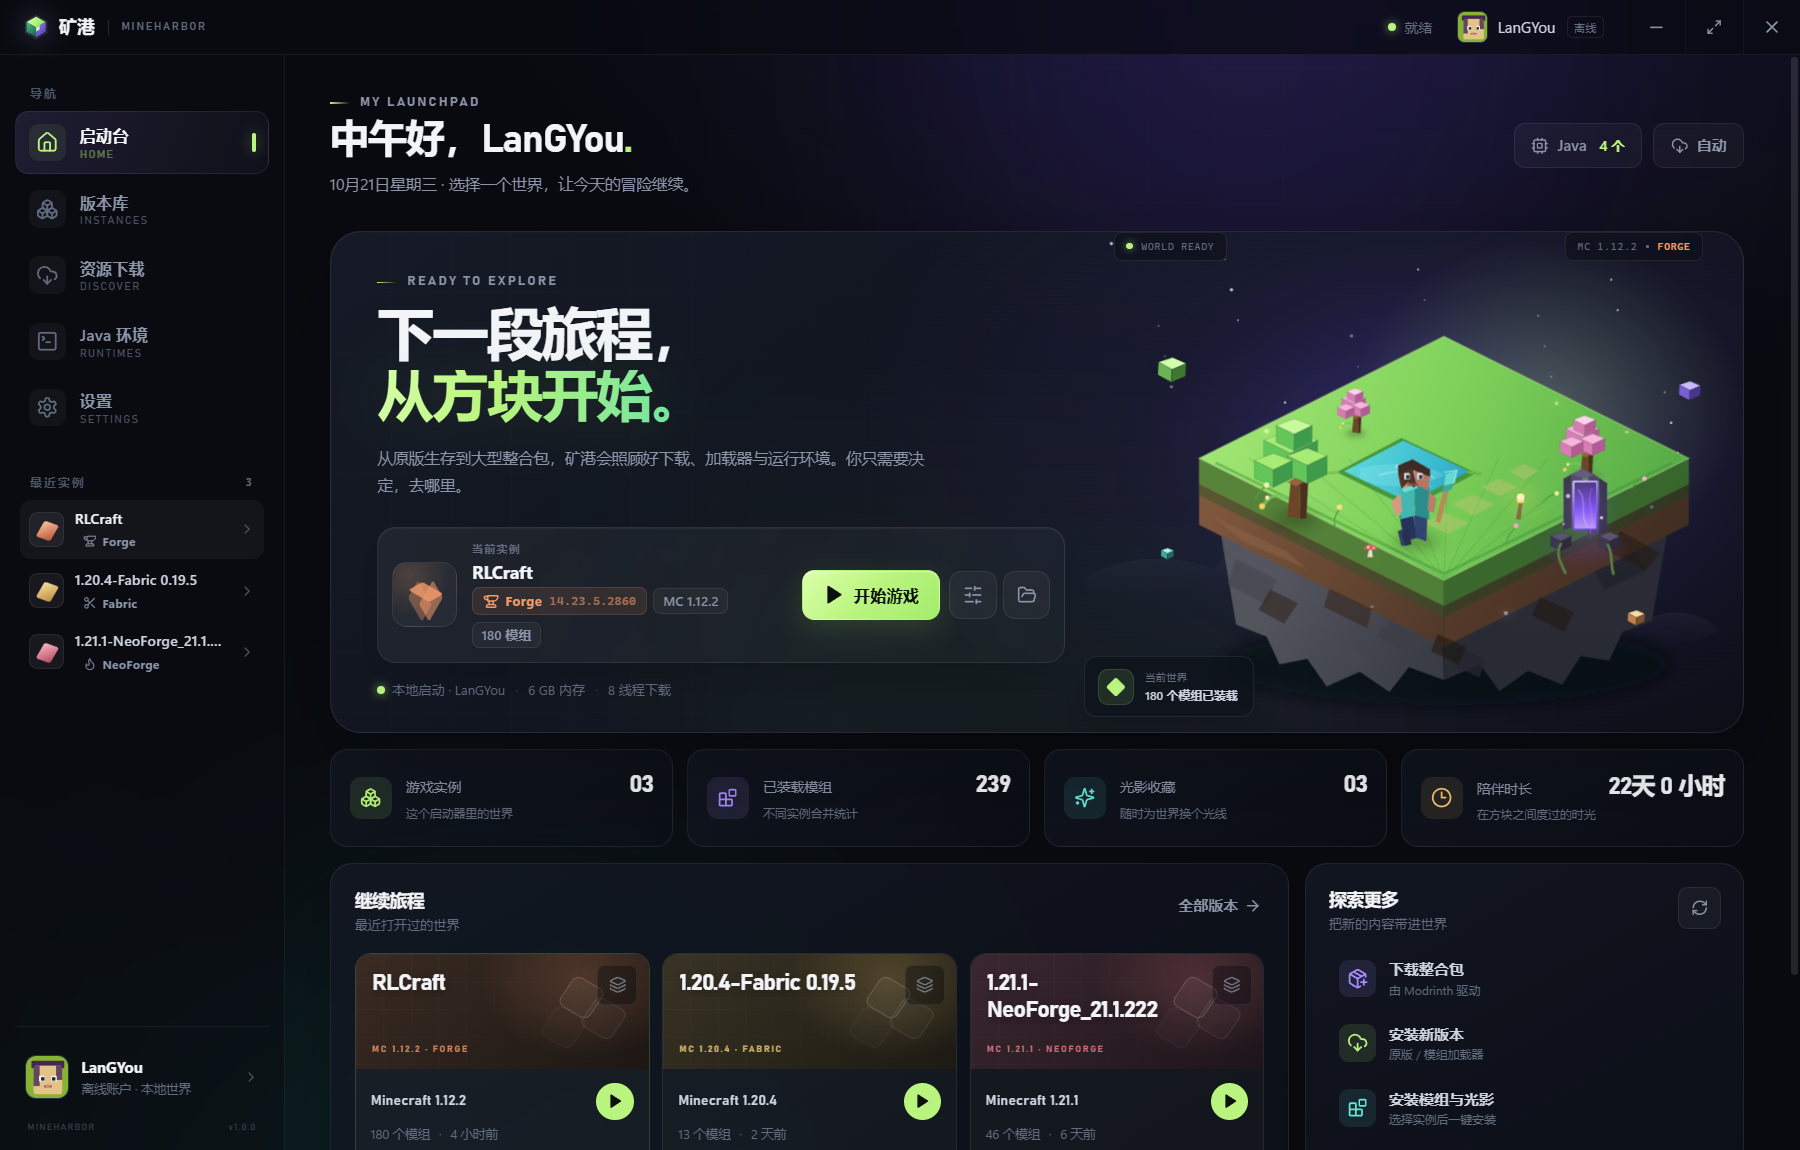
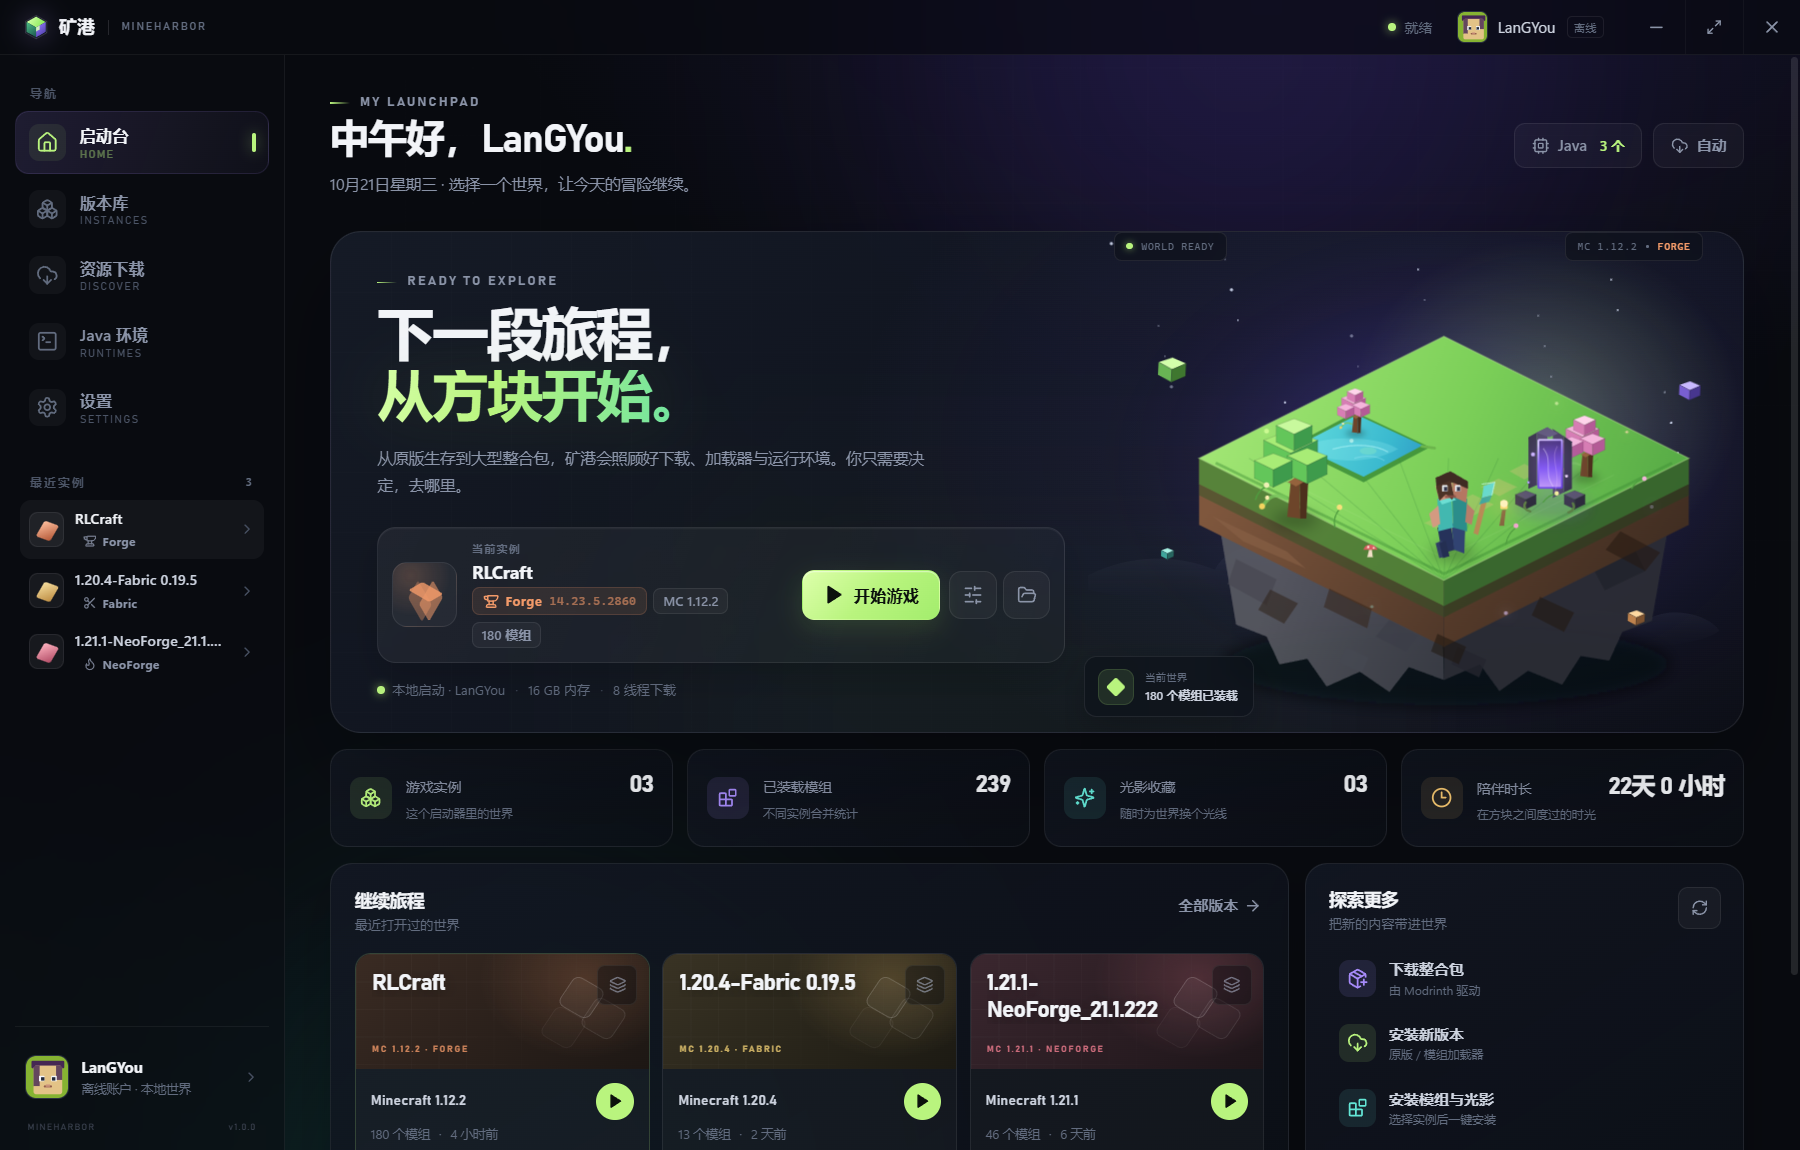
style: ground the hero character and portal on the island

Changed region(s): [[0.7156, 0.3652, 0.9022, 0.487], [0.3111, 0.5783, 0.3733, 0.6087]]

diff --git a/src/renderer/src/components/HeroScene.tsx b/src/renderer/src/components/HeroScene.tsx
@@ -95,8 +95,8 @@ function Portal({ x, y, scale = 1 }: { x: number; y: number; scale?: number }) {
       <circle cx="-19" cy="-38" r="2.2" fill="#cbb3ff" />
       <circle cx="18" cy="-14" r="1.6" fill="#f1d8ff" />
       <circle cx="-24" cy="-7" r="1.2" fill="#b79aff" />
-      <path d="M-27 15 C-33 25 -28 35 -22 47" stroke="#5b7d45" strokeWidth="3" fill="none" strokeLinecap="round" />
-      <path d="M25 16 C31 27 27 35 31 48" stroke="#5b7d45" strokeWidth="3" fill="none" strokeLinecap="round" />
+      <path d="M-27 15 C-31 20 -27 24 -22 25" stroke="#5b7d45" strokeWidth="2.5" fill="none" strokeLinecap="round" />
+      <path d="M25 16 C28 21 25 25 20 26" stroke="#5b7d45" strokeWidth="2.5" fill="none" strokeLinecap="round" />
     </g>
   )
 }
@@ -250,7 +250,7 @@ export function HeroScene({ loader = 'vanilla', mcVersion = '1.21.1', mods = 0 }
           <path d="M246 300 L430 390 L614 300" fill="none" stroke="#edffcf" strokeOpacity=".08" strokeWidth="1" />
 
           {/* Pond */}
-          <g>
+          <g transform="translate(-50 -28)">
             <path d="M314 297 L393 336 L465 298 L384 260 Z" fill="#368834" opacity=".8" />
             <path d="M322 296 L393 330 L457 296 L386 263 Z" fill="url(#hs-water)" />
             <path d="M339 293 C365 285 411 287 430 300 C402 316 360 316 339 304 Z" fill="#b4fffd" opacity=".18" />
@@ -273,9 +273,9 @@ export function HeroScene({ loader = 'vanilla', mcVersion = '1.21.1', mods = 0 }
           <Tree x={266} y={319} scale={0.94} />
           <Tree x={581} y={285} scale={0.58} colorful />
           <Tree x={333} y={242} scale={0.42} colorful />
-          <Portal x={583} y={360} scale={0.98} />
-          <Steve x={399} y={337} />
-          <Lamp x={508} y={348} />
+          <Portal x={545} y={315} scale={0.98} />
+          <Steve x={440} y={350} />
+          <Lamp x={490} y={355} />
 
           {/* Flowers and grass tufts */}
           <g>

diff --git a/src/main/services/installer.ts b/src/main/services/installer.ts
@@ -255,7 +255,7 @@ export function createDownloadOptions(source: DownloadSource, config: LauncherCo
     // A tuned dispatcher prevents one stalled CDN connection from blocking the
     // whole install for many minutes.
     agent: { dispatcher: downloadAgent },
-    headers: { 'User-Agent': 'MineHarbor/1.0.2 (Minecraft launcher)' },
+    headers: { 'User-Agent': 'MineHarbor/1.0.3 (Minecraft launcher)' },
     side: 'client'
   }
 }

diff --git a/src/main/services/http.ts b/src/main/services/http.ts
@@ -6,7 +6,7 @@ import { Readable, Transform } from 'node:stream'
 import { pipeline } from 'node:stream/promises'
 
 const DEFAULT_USER_AGENT =
-  'MineHarbor/1.0.2 (Minecraft launcher; +https://github.com/LanGYou-desu/mcLauncher)'
+  'MineHarbor/1.0.3 (Minecraft launcher; +https://github.com/LanGYou-desu/mcLauncher)'
 
 export interface FetchOptions {
   timeoutMs?: number

diff --git a/src/main/services/game.ts b/src/main/services/game.ts
@@ -306,7 +306,7 @@ export class GameService extends EventEmitter {
         accessToken,
         userType,
         launcherName: 'MineHarbor',
-        launcherBrand: 'MineHarbor 1.0.2',
+        launcherBrand: 'MineHarbor 1.0.3',
         maxMemory,
         minMemory,
         extraJVMArgs: splitCommandLine(config.jvmArgs),

diff --git a/README.md b/README.md
@@ -123,8 +123,8 @@
 
 同时生成 NSIS 安装包与便携版，输出位于 release/ 目录：
 
-- `MineHarbor-Setup-1.0.2.exe`：可交互安装包，可自选安装目录，创建桌面与开始菜单快捷方式；
-- `MineHarbor-1.0.2-portable.exe`：便携版，双击运行。
+- `MineHarbor-Setup-1.0.3.exe`：可交互安装包，可自选安装目录，创建桌面与开始菜单快捷方式；
+- `MineHarbor-1.0.3-portable.exe`：便携版，双击运行。
 
 只生成安装包可以执行 `npm run build:installer`，或双击 **build-installer.bat**。安装包默认按当前用户安装，不需要管理员权限；卸载时保留 `.minecraft` 和 `MineHarborData` 数据目录。
 
